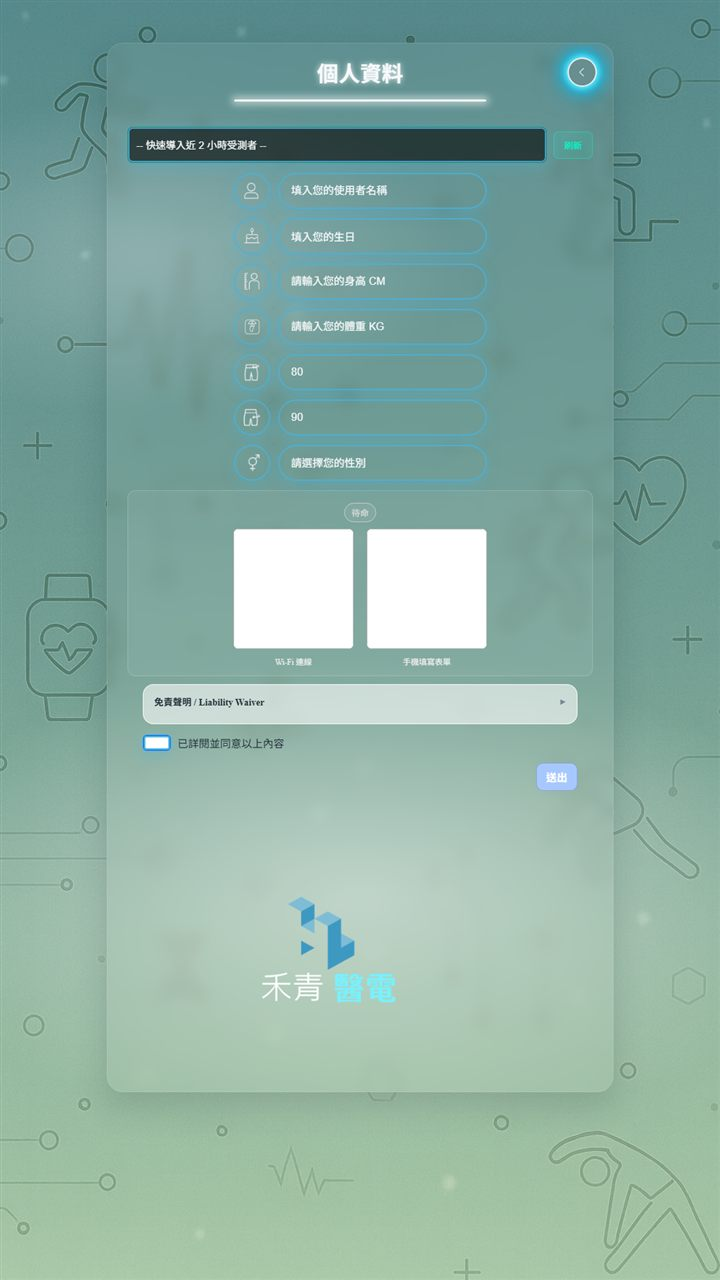
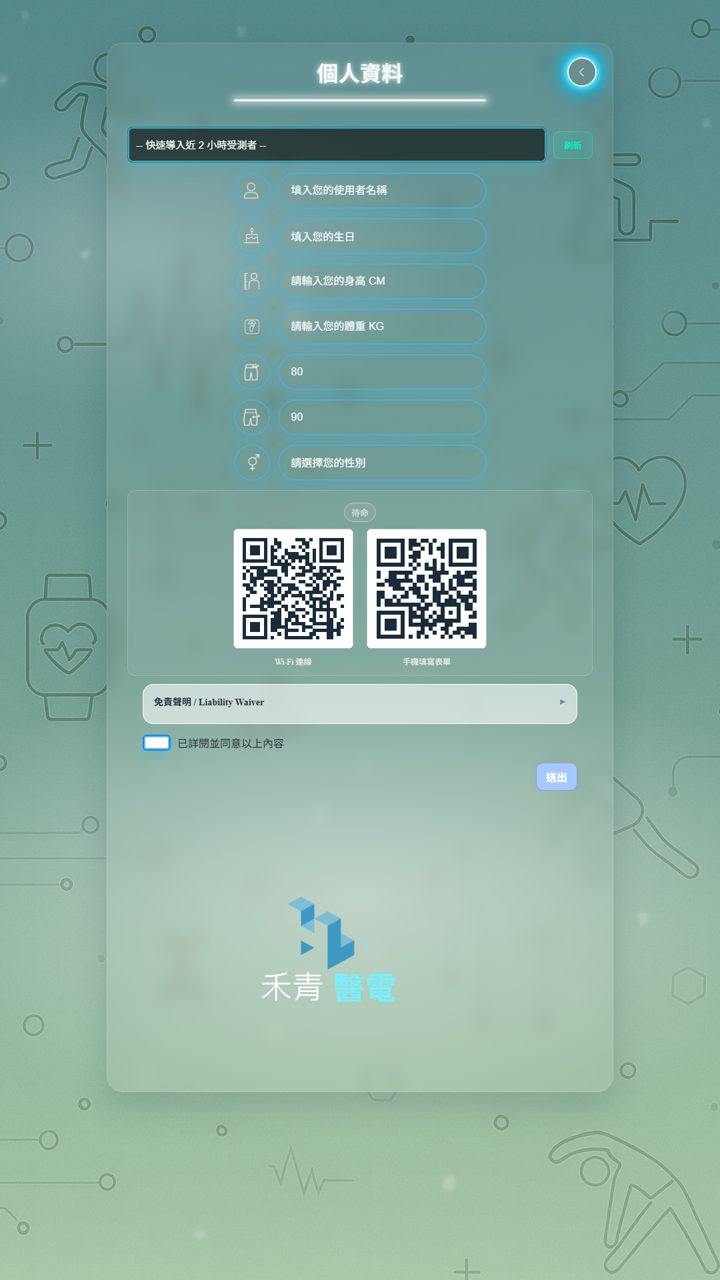
bodygo3-intro 特色補強：QR 預登錄、動作指引、抗光源、常模大數據、歷史回顧、機台選配
- profile 截圖白框合成 QR code（Wi-Fi 連線／手機填寫表單）
- 新增手機掃碼預登錄說明（多人等候不塞車）：介面區、流程步驟 1
- 檢測區新增三張技術卡：標準動作指引／抗光源干擾／全自動判定
- 報告區：PR 卡改「常模大數據」強調識別個體差異；新增「歷史成績回顧」卡（訓練前後差異、長期追蹤）
- 主機卡與空間說明補「螢幕尺寸可依場域選配、附輪好移動」
- 週邊區補精準量測便利性文案

Changed region(s): [[0.5194, 0.4062, 0.6722, 0.5], [0.3361, 0.4062, 0.4889, 0.5]]

diff --git a/bodygo3_0/DM/bodygo3-intro.html b/bodygo3_0/DM/bodygo3-intro.html
@@ -279,6 +279,17 @@ a { color: var(--cy); }
   border:1px solid rgba(55,240,180,.4); color:var(--gn); background:rgba(55,240,180,.07);
 }
 .chip.c { border-color: rgba(82,240,255,.4); color: var(--cy); background: rgba(82,240,255,.07); }
+.det-extra { display:grid; grid-template-columns:repeat(3,1fr); gap:18px; margin-top:26px; }
+@media (max-width:820px){ .det-extra{ grid-template-columns:1fr; } }
+.dx {
+  background: var(--card); border:1px solid var(--card-bd); border-radius:14px; padding:20px 22px;
+  transition: border-color .2s;
+}
+.dx:hover { border-color: var(--cy-dim); }
+.dx .dx-ic { font-size:24px; margin-bottom:10px; }
+.dx h4 { font-size:16px; font-weight:900; margin-bottom:2px; }
+.dx .en { font-family:var(--en); font-size:11.5px; letter-spacing:2px; color:var(--tx-faint); margin-bottom:8px; }
+.dx p { font-size:13.5px; line-height:1.85; color:var(--tx-dim); }
 
 /* ── hardware ── */
 .hw-grid { display:grid; grid-template-columns:repeat(3,1fr); gap:22px; }
@@ -459,11 +470,12 @@ a { color: var(--cy); }
       <p class="sec-desc">
         以下皆為系統實際畫面。霓虹視覺搭配大圖示、大字體與語音引導，受測者與操作人員都能直覺上手；
         從個人資料建立、評估模式選擇到單項檢測，動線一致、步驟明確。
+        <b style="color:var(--tx);">多人排隊等候時，可用手機掃碼「預先登錄」個人資料</b>，輪到受測時於機台一鍵快速導入，現場動線不塞車。
       </p>
     </div>
     <div class="ui-strip rv">
       <div class="ui-card"><div class="ui-frame"><img src="screens/index.jpg" alt="BodyGo 3.0 系統首頁：個人資料、資料上傳、評估項目、系統設置" loading="lazy"></div><div class="ui-cap"><div class="zh">系統首頁</div><div class="en">HOME</div></div></div>
-      <div class="ui-card"><div class="ui-frame"><img src="screens/profile.jpg" alt="個人資料頁：快速導入受測者、手機掃碼填寫表單" loading="lazy"></div><div class="ui-cap"><div class="zh">個人資料建立</div><div class="en">PROFILE</div></div></div>
+      <div class="ui-card"><div class="ui-frame"><img src="screens/profile.jpg" alt="個人資料頁：快速導入受測者、掃 QR code 用手機預先登錄表單" loading="lazy"></div><div class="ui-cap"><div class="zh">個人資料 · 手機預登錄</div><div class="en">PROFILE / QR PRE-REG</div></div></div>
       <div class="ui-card"><div class="ui-frame"><img src="screens/assess.jpg" alt="評估項目選單：成人體適能、跌倒風險評估、銀髮體適能、SPPB 評估" loading="lazy"></div><div class="ui-cap"><div class="zh">評估模式選擇</div><div class="en">ASSESSMENT</div></div></div>
       <div class="ui-card"><div class="ui-frame"><img src="screens/elder.jpg" alt="銀髮體適能檢測選單：2.44 公尺折返走、上肢肌力、柔軟度、下肢肌力、心肺適能、手握力" loading="lazy"></div><div class="ui-cap"><div class="zh">銀髮體適能</div><div class="en">SENIOR FITNESS</div></div></div>
       <div class="ui-card"><div class="ui-frame"><img src="screens/fall.jpg" alt="跌倒風險評估選單" loading="lazy"></div><div class="ui-cap"><div class="zh">跌倒風險評估</div><div class="en">FALL RISK</div></div></div>
@@ -504,6 +516,23 @@ a { color: var(--cy); }
         </div>
       </div>
     </div>
+    <div class="det-extra rv">
+      <div class="dx">
+        <div class="dx-ic">🧭</div>
+        <h4>標準動作指引</h4><div class="en">MOTION GUIDANCE</div>
+        <p>每項檢測開始前，螢幕以動作示範搭配語音逐步指引，施測者不必反覆解說、受測者一看就懂，確保每次都以正確姿勢受測。</p>
+      </div>
+      <div class="dx">
+        <div class="dx-ic">💡</div>
+        <h4>抗光源干擾</h4><div class="en">LIGHTING ROBUST</div>
+        <p>採用 3D 深度影像＋AI 骨架分析，不依賴環境亮度與背景顏色，在室內燈光變化、逆光等條件下仍能穩定追蹤動作。</p>
+      </div>
+      <div class="dx">
+        <div class="dx-ic">⚙</div>
+        <h4>全自動判定</h4><div class="en">FULLY AUTOMATED</div>
+        <p>起訖判定、計次、計時與姿勢正確性全部由系統自動完成，免碼錶、免目測、免手抄，成績即時入檔，杜絕人為誤差。</p>
+      </div>
+    </div>
   </div>
 </section>
 
@@ -514,8 +543,8 @@ a { color: var(--cy); }
       <div class="sec-kicker">HARDWARE &amp; BLE PERIPHERALS</div>
       <h2 class="sec-title">系統設備與智慧週邊<span class="en">DEVICE LINEUP</span></h2>
       <p class="sec-desc">
-        主機整合 AI 深度相機與觸控螢幕，量測型週邊透過 BLE 無線連接、成績自動回傳系統 —
-        免手抄、免鍵入，杜絕人工誤差；再搭配定位地墊引導受測者站位。
+        主機整合 AI 深度相機與觸控螢幕，量測型週邊透過 BLE 無線連接、數位讀值即測即傳 —
+        免手抄、免鍵入、免目測讀刻度，量測又快又準；再搭配定位地墊引導受測者站位，一人即可順暢施測。
       </p>
     </div>
     <div class="hw-grid rv">
@@ -523,8 +552,8 @@ a { color: var(--cy); }
         <div class="hw-num">01</div>
         <div class="hw-img"><img src="機器.png" alt="BodyGo 3.0 系統主機" loading="lazy"></div>
         <h3>系統主機</h3><div class="en">AI STATION</div>
-        <p>直立式大尺寸觸控螢幕＋AI 深度相機（3D 空間感測）＋移動式腳架，即推即用；內建語音引導（TTS），長者不需低頭操作。</p>
-        <div class="hw-uses"><span>全部檢測</span><span>AI 姿態辨識</span><span>語音引導</span></div>
+        <p>直立式觸控螢幕＋AI 深度相機（3D 空間感測）＋附輪腳架，即推即用、機動換場；螢幕尺寸可依場域需求選配。內建語音引導（TTS），長者不需低頭操作。</p>
+        <div class="hw-uses"><span>全部檢測</span><span>AI 姿態辨識</span><span>語音引導</span><span>尺寸可選配</span></div>
       </div>
       <div class="hw">
         <div class="hw-num">02</div>
@@ -564,7 +593,7 @@ a { color: var(--cy); }
     </div>
     <div class="hw-space rv">
       <b>SPACE&nbsp;·&nbsp;1500 × 4750 mm</b>
-      建議使用空間：寬 1.5 公尺 × 長 4.75 公尺，即可完成含 4 公尺步行在內的全部檢測；主機附輪可推移，機動佈署於健身房、據點、診所。
+      建議使用空間：寬 1.5 公尺 × 長 4.75 公尺，即可完成含 4 公尺步行在內的全部檢測；主機附輪好移動、螢幕尺寸可依場域選配，健身房、社區據點、診所、活動快閃皆可機動佈署。
     </div>
   </div>
 </section>
@@ -660,9 +689,10 @@ a { color: var(--cy); }
       <div class="rep-feats rv">
         <div class="rf"><div class="rf-ic">🏅</div><div><h4>綜合等級徽章<span class="en">OVERALL GRADE</span></h4><p>整體表現以等級徽章呈現於報告右上角，受測者一眼掌握自身水準。</p></div></div>
         <div class="rf"><div class="rf-ic">📡</div><div><h4>多向度雷達圖<span class="en">RADAR CHART</span></h4><p>將全部檢測項目的 PR 值繪成雷達圖，肌力、平衡、柔軟度、心肺的強弱項一目瞭然。</p></div></div>
-        <div class="rf"><div class="rf-ic">📊</div><div><h4>PR 百分位與燈號<span class="en">PERCENTILE RANK</span></h4><p>導入國健署體適能常模，依年齡、性別以回歸演算法推算 PR 值，並以「不足／稍弱／普通／尚好／很好」五級燈號標示。</p></div></div>
+        <div class="rf"><div class="rf-ic">📊</div><div><h4>常模大數據 · PR 百分位<span class="en">NORM BIG DATA</span></h4><p>導入國健署體適能常模大數據，依年齡、性別以回歸演算法推算 PR 值，快速識別個體差異與待改善狀況，以「不足／稍弱／普通／尚好／很好」五級燈號標示。</p></div></div>
         <div class="rf"><div class="rf-ic">🔁</div><div><h4>多次試作紀錄<span class="en">TRIALS</span></h4><p>每項目保留各次試作成績並自動標記最佳值（★），同時附上同齡正常範圍區間供對照。</p></div></div>
         <div class="rf"><div class="rf-ic">🚶</div><div><h4>動作分段圖解<span class="en">PHASE BREAKDOWN</span></h4><p>折返走等動態測驗以圖解拆分「坐→站、行走速度、轉身、站→坐」各分段耗時，指出弱點環節。</p></div></div>
+        <div class="rf"><div class="rf-ic">📈</div><div><h4>歷史成績回顧<span class="en">HISTORY REVIEW</span></h4><p>每次檢測成績自動存檔，可依受測者調閱歷次紀錄並繪成逐項趨勢圖，訓練前後表現差異、長期介入成效一目瞭然。</p></div></div>
         <div class="rf"><div class="rf-ic">🖨</div><div><h4>雙語 A4 即印<span class="en">BILINGUAL PDF</span></h4><p>中英雙語版面、A4 兩頁排版，現場列印帶走，亦可 PDF 存檔與雲端上傳長期追蹤。</p></div></div>
       </div>
     </div>
@@ -727,7 +757,7 @@ a { color: var(--cy); }
       <h2 class="sec-title">評估流程<span class="en">4 STEPS</span></h2>
     </div>
     <div class="flow rv">
-      <div class="fl"><div class="fl-num">1</div><h4>建立個案</h4><div class="en">PROFILE</div><p>觸控輸入或手機掃碼填表，2 小時內受測者可快速導入</p></div>
+      <div class="fl"><div class="fl-num">1</div><h4>建立個案</h4><div class="en">PROFILE</div><p>觸控輸入或手機掃碼預登錄，多人等候也不塞車，2 小時內受測者可快速導入</p></div>
       <div class="fl"><div class="fl-num">2</div><h4>選擇評估</h4><div class="en">SELECT</div><p>依對象選擇 SPPB／跌倒風險／銀髮／成人四種模式</p></div>
       <div class="fl"><div class="fl-num">3</div><h4>AI 檢測</h4><div class="en">ASSESS</div><p>語音引導動作，AI 自動計次計時，BLE 成績即時回傳</p></div>
       <div class="fl"><div class="fl-num">4</div><h4>產出報告</h4><div class="en">REPORT</div><p>一鍵產出常模 PR 報告，現場列印或雲端保存追蹤</p></div>
